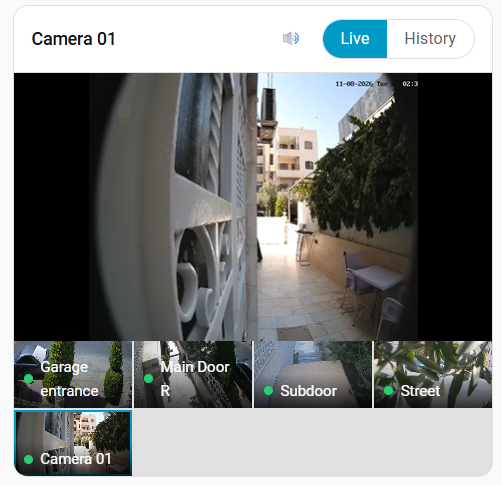
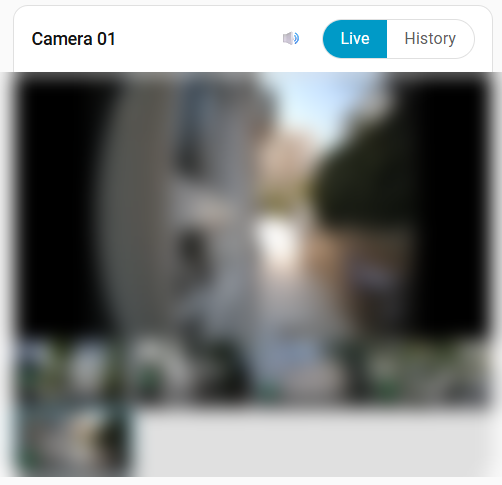
Blur the screenshot, and treat 1.20.0 as the first public release
The card screenshot showed the front of a house in enough detail to identify
it. Blurred, with a caption saying so, since an unexplained blur reads as a
rendering fault.

The thirty-nine development tags are gone from the Releases page: they were
iterations against one machine, not versions anyone was meant to install.
1.20.0 keeps its number rather than becoming 1.0.0 because it is the version
already in the field and HACS only upgrades forward.

diff --git a/CHANGELOG.md b/CHANGELOG.md
@@ -1,50 +1,29 @@
 # Changelog
 
-Per-release notes live on the
-[Releases page](https://github.com/techmarkai/hikvision-nvr-ha/releases). This
-file records the milestones worth knowing about when deciding whether to
-upgrade.
-
 Versioning is [semantic](https://semver.org/): the minor version moves for
 features, the patch version for fixes. `manifest.json` carries the version HACS
 installs, and the frontend cache-busts on it — so an upgrade always ships a
 matching card.
 
-## 1.20
+## 1.20.0 — first public release
 
-Home Assistant best-practices pass. A repair now appears when the NVR is set to
-record a detection but not to report it — the condition that makes motion
-sensors sit silently off. Only detections that are actually switched on are
-counted.
+Everything below 1.20 was development, released only to the machine it was
+being built against; those tags have been removed. What that work produced:
 
-## 1.19
-
-Live audio, where the hardware has it. Channels are probed for a microphone and
-codec, and only those get a speaker control. G.711 is passed through untouched.
-
-## 1.16 – 1.18
-
-WebRTC live view through Home Assistant's native camera stream element, which
-took median start-up from 4.6 s to 1.6 s on the reference device. Downloads
-moved from a real-time RTSP read to the NVR's bulk endpoint plus a remux —
-about fifteen times quicker — and the clip length became selectable so a
-download saves exactly what the timeline plays.
-
-## 1.13 – 1.15
-
-Timeline zoom and pan, on the day already loaded, so zooming never waits on the
-NVR. Event sensors became opt-in per type: capability detection offers only what
-the device reports, and unticking one removes its entities instead of leaving
-them behind.
-
-## 1.10 – 1.12
-
-Capability-driven events, NVR health and storage sensors, per-channel
-connectivity from the device's own probe, and the branding shown on the
-integrations dashboard.
-
-## 1.0 – 1.9
-
-Live view, recorded-history playback on a timeline, the media browser, the
-sidebar panel with GUI setup, the auto-registered Lovelace card, the REST API
-and the services.
+- **Live view** over WebRTC where the browser and Home Assistant support it,
+  HLS otherwise. Median start-up on the reference device is 1.6 s, down from
+  4.6 s on the HLS-only path.
+- **Playback** on a zoomable timeline, straight from the NVR's disks. Zoom and
+  pan work on the day already loaded, so they never wait on the device.
+- **Downloads** from the NVR's bulk endpoint plus a remux, roughly fifteen times
+  faster than reading playback in real time, with a selectable clip length so a
+  download saves exactly what the timeline plays.
+- **Events** pushed over ISAPI's alert stream rather than polled, created from
+  the device's own capability declaration and switchable per type.
+- **Live audio** where the channel actually has a microphone. G.711 passes
+  through untouched.
+- **Health**: uptime, CPU, memory, per-disk usage and status, per-channel
+  connectivity from the NVR's own probe.
+- **Card, panel and REST API**, all registered on install.
+- A **repair** for the condition that makes motion sensors sit silently off: a
+  detection the NVR records but never reports.

diff --git a/README.md b/README.md
@@ -20,6 +20,7 @@ ISAPI models work to the extent their firmware exposes the same surfaces.
   &nbsp;
   <img src="docs/images/setup-dialog.png" alt="Adding an NVR from the Home Assistant UI" width="420">
 </p>
+<p align="center"><sub>The card in live view, and setup from the UI. Camera imagery is blurred here; it is not blurred in the integration.</sub></p>
 
 ## What you get
 
